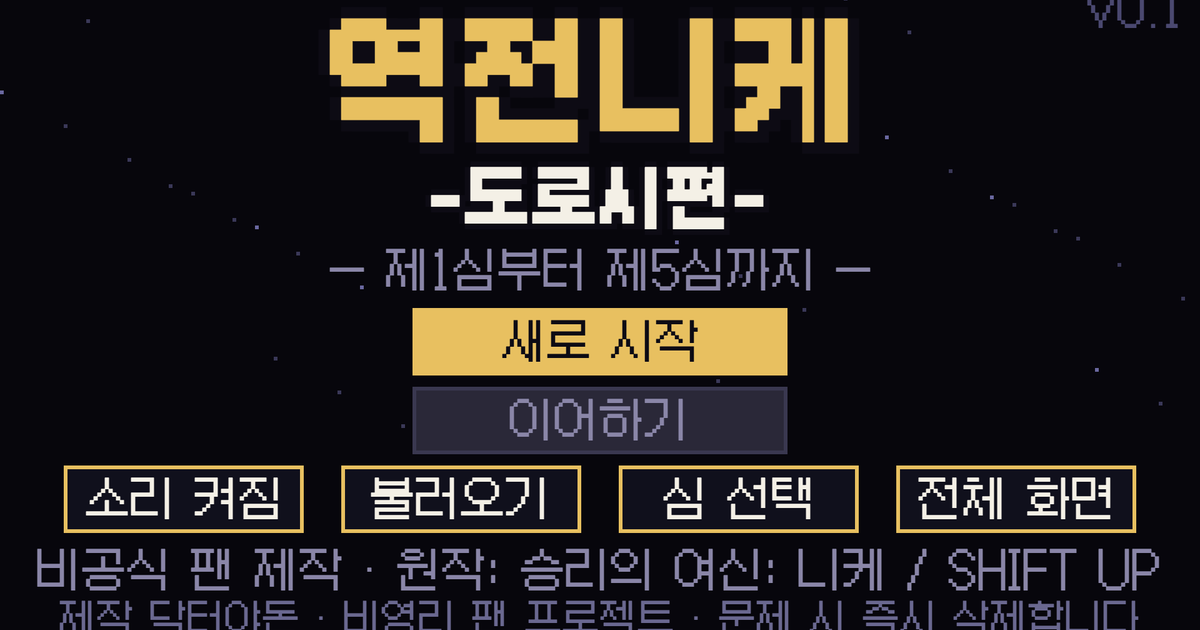
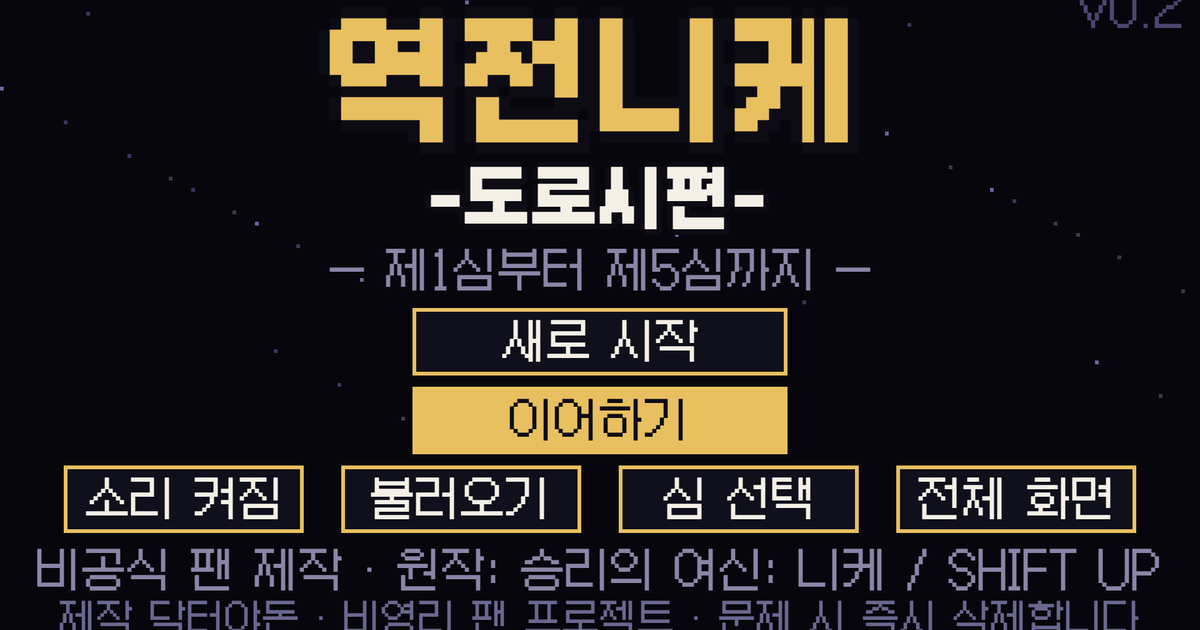
버전 표기 v0.2

Changed region(s): [[0.3392, 0.4825, 0.6783, 0.7238], [0.8942, 0.0, 0.9867, 0.0603]]

diff --git a/src/game.js b/src/game.js
@@ -1346,7 +1346,7 @@
     row.forEach(([label, fn], i) => button(x0 + i * (bw + gap), 130, bw, 18, label, fn));
     text(CREDIT, 160, 152, COL.dim, { align: 'center' });
     text(NOTICE, 160, 166, '#6a6890', { align: 'center', scale: 10 / 12 });
-    text('v0.1', 316, 2, '#4a4870', { align: 'right' });
+    text('v0.2', 316, 2, '#4a4870', { align: 'right' });
     if (dataErrors.length) text(`데이터 오류 ${dataErrors.length}건 (콘솔 확인)`, 4, 2, COL.red);
   }
   // 패소 화면: 나유타가 나와 태연하게 위로한다(왼쪽 초상, 오른쪽 버튼, 아래 대사)

diff --git a/README.md b/README.md
@@ -1,4 +1,4 @@
-# 역전니케-도로시편- (옛 이름 「도로시 재판: 지휘관의 변론」) — 시험판 v0.1
+# 역전니케-도로시편- (옛 이름 「도로시 재판: 지휘관의 변론」) — v0.2
 
 도트 감성 법정 공방 팬게임. 「승리의 여신: 니케」 비공식 팬 제작물. 지휘관이 되어 방주 법정에 선 도로시를 변호한다.
 엔진은 자매작 「나유타 재판」(github.com/hspark-rm/nayuta-trial)에서 갈라져 나왔다.
